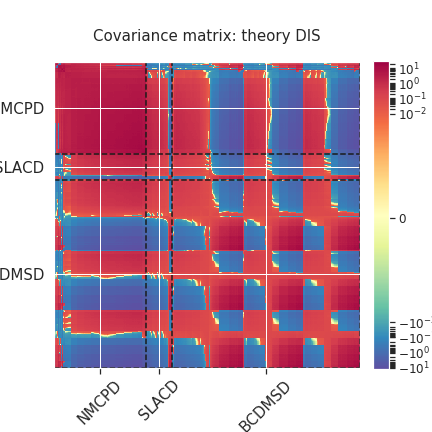
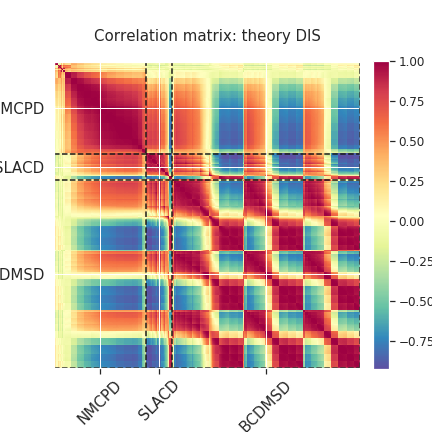
correlation plots

diff --git a/src/covmat/covmat.py b/src/covmat/covmat.py
@@ -31,16 +31,15 @@ def matrix_plot_labels(df):
         ticklocs[i] = 0.5 * (startlocs[i + 1] + startlocs[i])
     return ticklocs, ticklabels, startlocs
 
-def matrix_plot(matrix, labeldf, descrip, label):
+def corrmat_plot(matrix, labeldf, descrip, label):
     fig, ax = plt.subplots(figsize=(6,6))
-    matrixplot = ax.matshow(100*matrix,
-                            cmap=cm.Spectral_r,
-                            norm=mcolors.SymLogNorm(linthresh=0.01,
-                        linscale=10))
+    diag_minus_half = (np.diagonal(matrix))**(-0.5)
+    corrmat = diag_minus_half[:,np.newaxis]*matrix*diag_minus_half
+    matrixplot = ax.matshow(corrmat,
+                            cmap=cm.Spectral_r)
     cbar=fig.colorbar(matrixplot, fraction=0.046, pad=0.04)
-    cbar.set_label(label="% of data", fontsize=15)
     cbar.ax.tick_params(labelsize=12)
-    ax.set_title(f"Covariance matrix: {descrip} {label}", fontsize=15)
+    ax.set_title(f"Correlation matrix: {descrip} {label}", fontsize=15)
     ticklocs, ticklabels, startlocs = matrix_plot_labels(labeldf)
     plt.xticks(ticklocs, ticklabels, rotation=45, fontsize=15)
     plt.gca().xaxis.tick_bottom()
@@ -77,10 +76,10 @@ def covmat_plots(label, fp1_table, fp2_table, fp1_covmat):
     normcovmat = covmat/np.outer(D.values, D.values)
     normexpcovmat = expcovmat/np.outer(D.values, D.values)
     expsqrtdiags = np.sqrt(np.diag(normexpcovmat))
-    impactcovmat = (covmat + expcovmat)/expcovmat
+    totcovmat = covmat + expcovmat
 
-    fig_th = matrix_plot(normcovmat, fp1_table, "theory", label)
-    fig_imp = matrix_plot(impactcovmat, fp1_table, "impact", label)
+    fig_th = corrmat_plot(normcovmat, fp1_table, "theory", label)
+    fig_imp = corrmat_plot(totcovmat, fp1_table, "total", label)
 
     # Diag element plot
     sqrtdiags = np.sqrt(np.diag(normcovmat))
